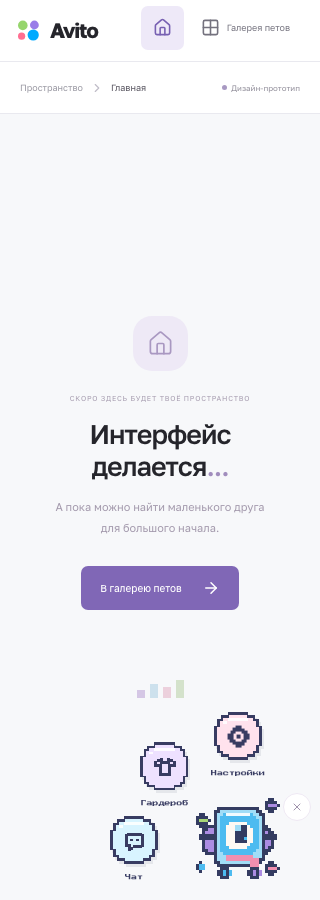
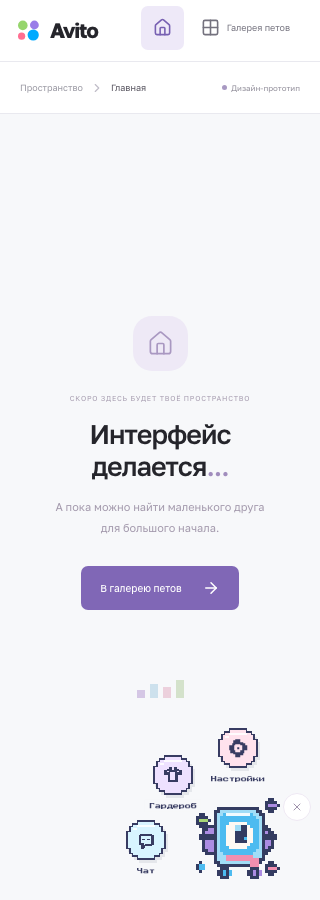
Reduce companion action circles and orbit spacing

Changed region(s): [[0.3438, 0.8089, 0.625, 0.9956], [0.6562, 0.7778, 0.8438, 0.8711]]

diff --git a/frontend/src/widgets/pet-companion/ui/companion-orbit-menu.tsx b/frontend/src/widgets/pet-companion/ui/companion-orbit-menu.tsx
@@ -31,16 +31,16 @@ export function CompanionOrbitMenu({ anchor, position, open, onAction }: {
       aria-hidden={!open} inert={!open || !interactive}>
       {orbit && actions.map((action, index) => (
         <button key={action.id} type="button" aria-label={action.label} onClick={() => onAction(action.id)}
-          className={`orbit-action fixed z-38 flex flex-col items-center gap-[7px] bg-transparent p-0 text-[#383c62]
+          className={`orbit-action fixed z-38 flex flex-col items-center gap-[5px] bg-transparent p-0 text-[#383c62]
             outline-none [transition:transform_280ms_cubic-bezier(.22,1,.36,1),opacity_180ms_ease]
             motion-reduce:transition-none hover:[&_svg.orbit-disc]:brightness-105
             focus-visible:[&_.orbit-disc]:drop-shadow-[0_0_3px_#00aaff]
             ${open ? "opacity-100" : "pointer-events-none opacity-0"}`}
-          style={{ left: orbit.origin.x, top: orbit.origin.y, width: orbit.size,
+          style={{ left: orbit.origin.x - 4, top: orbit.origin.y, width: orbit.size + 8,
             transform: open ? `translate(${orbit.offsets[index].x}px, ${orbit.offsets[index].y}px) scale(1)` : "translate(0, 0) scale(.35)",
             transitionDelay: open ? `${index * 40}ms` : `${(2 - index) * 20}ms`,
           }}>
-          <span className="relative grid size-full aspect-square place-items-center">
+          <span className="relative grid aspect-square place-items-center" style={{ width: orbit.size, height: orbit.size }}>
             <svg className="orbit-disc absolute inset-0 size-full overflow-visible [filter:drop-shadow(2px_3px_0_#383c6218)]"
               viewBox="0 0 56 56" shapeRendering="crispEdges" aria-hidden="true">
               <path d={outline} fill="#383c62" />

diff --git a/frontend/src/widgets/pet-companion/ui/pixel-action-icon.tsx b/frontend/src/widgets/pet-companion/ui/pixel-action-icon.tsx
@@ -6,6 +6,6 @@ const icons: Record<CompanionAction, string> = {
   settings: "M6 1h4v2h2v1h2v2h1v4h-2v2h-1v2h-2v1H6v-2H4v-1H2v-2H1V6h2V4h1V2h2z M6 5v1H5v4h1v1h4v-1h1V6h-1V5z M7 7h2v2H7z",
 };
 export function PixelActionIcon({ action }: { action: CompanionAction }) {
-  return <svg width="25" height="25" viewBox="0 0 16 16" fill="currentColor"
+  return <svg width="20" height="20" viewBox="0 0 16 16" fill="currentColor"
     shapeRendering="crispEdges" aria-hidden="true"><path fillRule="evenodd" d={icons[action]} /></svg>;
 }

diff --git a/frontend/src/widgets/pet-companion/model/use-orbit-placement.ts b/frontend/src/widgets/pet-companion/model/use-orbit-placement.ts
@@ -13,8 +13,8 @@ export function useOrbitPlacement(
       if (!anchor.current) return;
       const box = anchor.current.getBoundingClientRect();
       const compact = window.innerWidth <= 650;
-      const size = compact ? 48 : 56;
-      const radius = compact ? 104 : 120;
+      const size = compact ? 40 : 44;
+      const radius = compact ? 92 : 104;
       const cx = box.left + box.width / 2;
       const cy = box.top + box.height / 2;
       const horizontal = cx >= window.innerWidth / 2 ? -1 : 1;

diff --git a/CONTEXT.md b/CONTEXT.md
@@ -253,3 +253,10 @@
 - **Действия:** чат открывает текущую подготовленную реплику, гардероб переходит в /pets, настройки — окно общей паузы анимаций и скрытия пета. AI и одежда не реализовывались. Escape закрывает окна с возвратом фокуса, клик снаружи закрывает меню; Tab с пета ведёт к его пунктам. Настройки получают фокус после размещения окна.
 - **Проверки:** Next build прошёл; Steiger — 0 ошибок и прежние 6 рекомендаций. Новый Playwright-сценарий проверяет одиночный/двойной клик, реальные тап/двойной тап, два Enter, Tab/Escape, три действия, drag, края и reduced motion на 1440/390/320 px. Отдельно прошли регрессии реплики, мышиного/сенсорного перетаскивания и всей галереи на шести ширинах. Ошибок браузера нет. Реальное изменение transform проверено в начале, середине и конце плавного раскрытия.
 - **Материалы:** frontend/design/captures/verify-orbit-menu.mjs, orbit-menu-verification.json, orbit-menu-*.png, orbit-menu-motion-*.png. Существующие сценарии адаптированы к двойному клику. Спрайты, ID, избранное и положение пета не менялись. Код остаётся в main; отдельный сервер landing не затрагивается.
+
+
+### 2026-11-11 — Агент: Codex — Уменьшение кружков меню
+
+- По скриншоту пользователя кружки уменьшены с 56/48 до 44/40 px (десктоп/телефон), пиктограммы — с 25 до 20 px. Радиус дуги уменьшен со 120/104 до 104/92 px, отступ до подписей — с 7 до 5 px. Подписи сохраняют размер для читаемости.
+- Область нажатия расширена на 4 px с каждой стороны рисунка; мобильная кнопка остаётся шириной 48 px. Анимация и жесты не менялись.
+- Next build и существующий Playwright-сценарий меню проверяют десктоп, мобильные ширины, жесты, Tab/Escape, три действия и края экрана. Скриншоты orbit-menu-1440.png, orbit-menu-390.png, orbit-menu-320.png обновлены.
